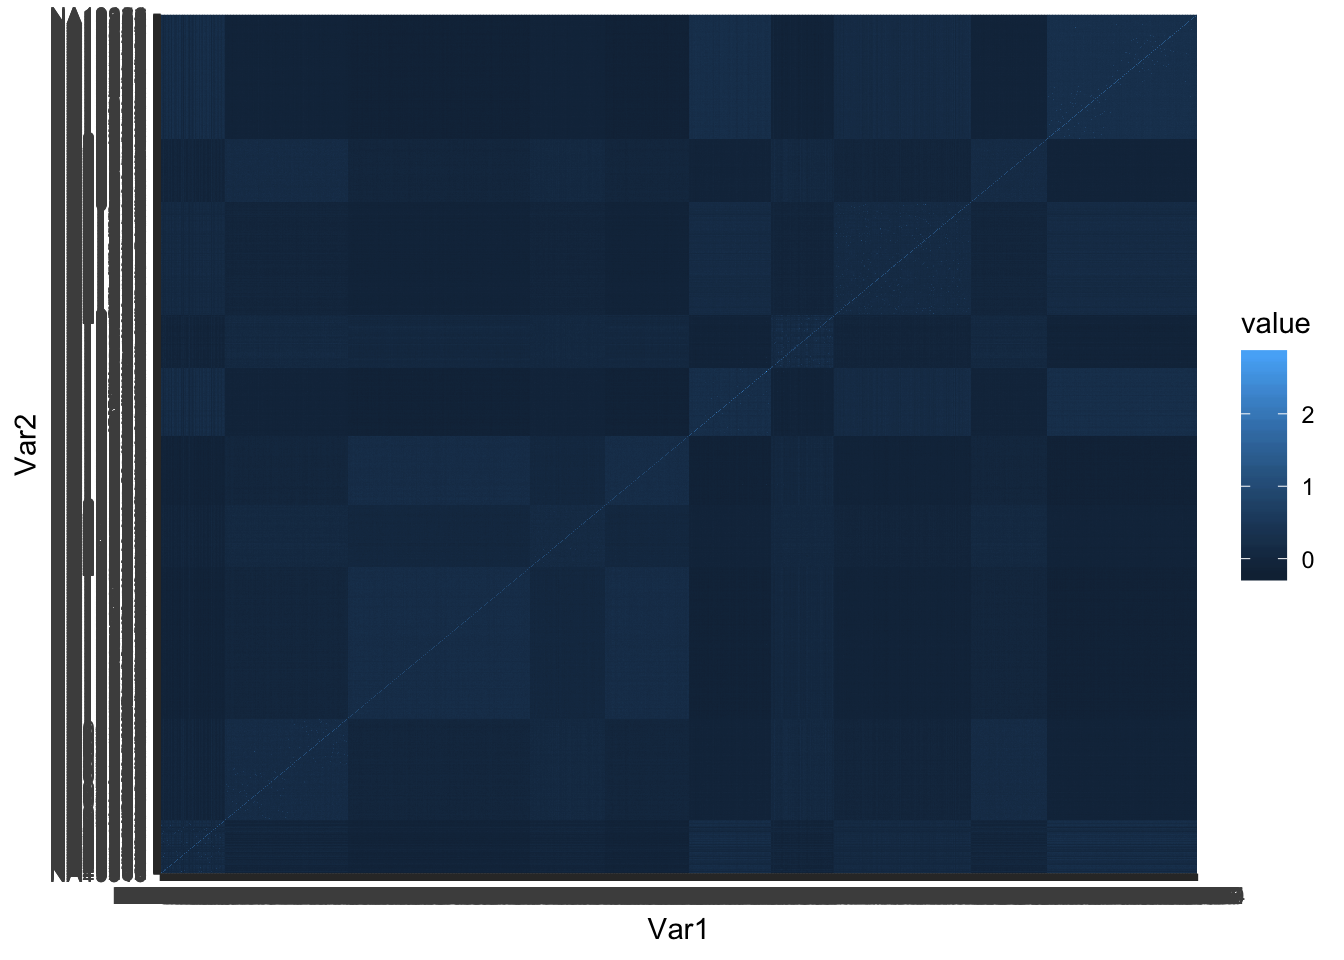
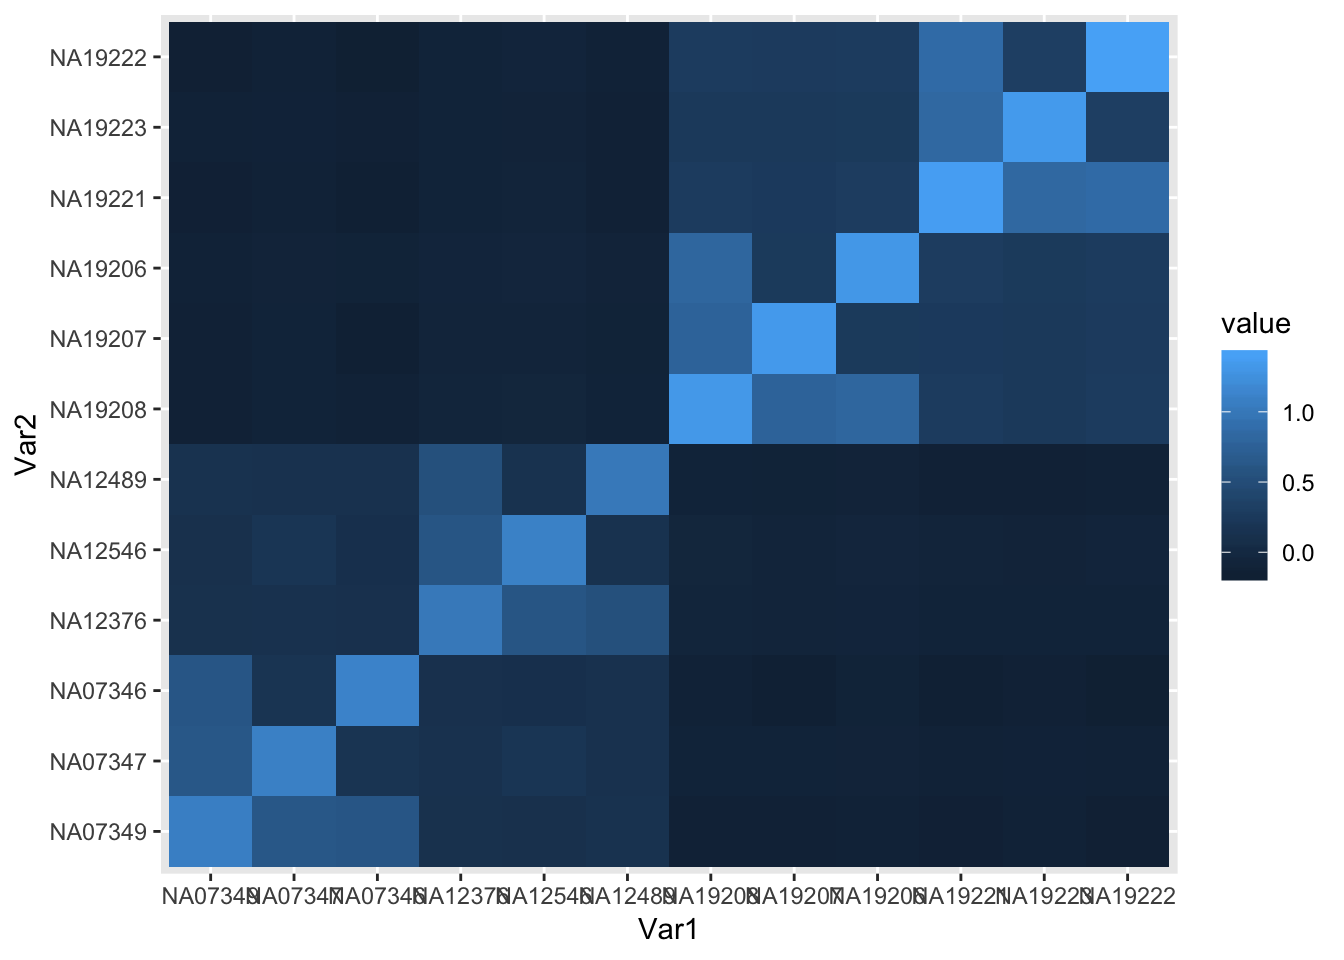
grm for selected only

diff --git a/docs/L8-GRM.html b/docs/L8-GRM.html
@@ -13,7 +13,7 @@
 
 <meta name="date" content="2020-02-06" />
 
-<title>L8-ldscore-GRM</title>
+<title>L8 GRM shows population structure</title>
 
 <script src="site_libs/jquery-1.11.3/jquery.min.js"></script>
 <meta name="viewport" content="width=device-width, initial-scale=1" />
@@ -418,7 +418,7 @@ div.section {
 
 
 
-<h1 class="title toc-ignore">L8-ldscore-GRM</h1>
+<h1 class="title toc-ignore">L8 GRM shows population structure</h1>
 <h4 class="author">Hae Kyung Im</h4>
 <h4 class="date">2020-02-06</h4>
 
@@ -469,7 +469,7 @@ This reproducible <a href="http://rmarkdown.rstudio.com">R Markdown</a> analysis
 </div>
 <div id="strongRMarkdownfilestronguncommittedchanges" class="panel-collapse collapse">
 <div class="panel-body">
-<p>The R Markdown is untracked by Git. To know which version of the R Markdown file created these results, you’ll want to first commit it to the Git repo. If you’re still working on the analysis, you can ignore this warning. When you’re finished, you can run <code>wflow_publish</code> to commit the R Markdown file and build the HTML.</p>
+<p>The R Markdown file has unstaged changes. To know which version of the R Markdown file created these results, you’ll want to first commit it to the Git repo. If you’re still working on the analysis, you can ignore this warning. When you’re finished, you can run <code>wflow_publish</code> to commit the R Markdown file and build the HTML.</p>
 </div>
 </div>
 </div>
@@ -524,10 +524,10 @@ This reproducible <a href="http://rmarkdown.rstudio.com">R Markdown</a> analysis
 <div class="panel panel-default">
 <div class="panel-heading">
 <p class="panel-title">
-<a data-toggle="collapse" data-parent="#workflowr-checks" href="#strongRepositoryversionstrongahrefhttpsgithubcomhakyimlabhgen471treee94b3dd6a4b2adbb88c90c3cf65c1a56ac9ef265targetblanke94b3dda"> <span class="glyphicon glyphicon-ok text-success" aria-hidden="true"></span> <strong>Repository version:</strong> <a href="https://github.com/hakyimlab/hgen471/tree/e94b3dd6a4b2adbb88c90c3cf65c1a56ac9ef265" target="_blank">e94b3dd</a> </a>
+<a data-toggle="collapse" data-parent="#workflowr-checks" href="#strongRepositoryversionstrongahrefhttpsgithubcomhakyimlabhgen471tree92e339bd615b5df6e84ac560309f1e922ab9fbc1targetblank92e339ba"> <span class="glyphicon glyphicon-ok text-success" aria-hidden="true"></span> <strong>Repository version:</strong> <a href="https://github.com/hakyimlab/hgen471/tree/92e339bd615b5df6e84ac560309f1e922ab9fbc1" target="_blank">92e339b</a> </a>
 </p>
 </div>
[2 lines of base64/hex data omitted]
 <div class="panel-body">
 <p>
 Great! You are using Git for version control. Tracking code development and connecting the code version to the results is critical for reproducibility. The version displayed above was the version of the Git repository at the time these results were generated. <br><br> Note that you need to be careful to ensure that all relevant files for the analysis have been committed to Git prior to generating the results (you can use <code>wflow_publish</code> or <code>wflow_git_commit</code>). workflowr only checks the R Markdown file, but you know if there are other scripts or data files that it depends on. Below is the status of the Git repository when the results were generated:
@@ -539,9 +539,8 @@ Ignored files:
     Ignored:    .Rproj.user/
     Ignored:    docs/.DS_Store
 
-Untracked files:
-    Untracked:  analysis/L8-GRM.Rmd
-    Untracked:  analysis/L8-LD-score.Rmd
+Unstaged changes:
+    Modified:   analysis/L8-GRM.Rmd
 
 </code></pre>
 <p>
@@ -554,9 +553,69 @@ Note that any generated files, e.g. HTML, png, CSS, etc., are not included in t
 <hr>
 </div>
 <div id="versions" class="tab-pane fade">
+
 <p>
-There are no past versions. Publish this analysis with <code>wflow_publish()</code> to start tracking its development.
+These are the previous versions of the R Markdown and HTML files. If you’ve configured a remote Git repository (see <code>?wflow_git_remote</code>), click on the hyperlinks in the table below to view them.
 </p>
+<div class="table-responsive">
+<table class="table table-condensed table-hover">
+<thead>
+<tr>
+<th>
+File
+</th>
+<th>
+Version
+</th>
+<th>
+Author
+</th>
+<th>
+Date
+</th>
+<th>
+Message
+</th>
+</tr>
+</thead>
+<tbody>
+<tr>
+<td>
+Rmd
+</td>
+<td>
+<a href="https://github.com/hakyimlab/hgen471/blob/92e339bd615b5df6e84ac560309f1e922ab9fbc1/analysis/L8-GRM.Rmd" target="_blank">92e339b</a>
+</td>
+<td>
+Hae Kyung Im
+</td>
+<td>
+2020-02-07
+</td>
+<td>
+GRM-LD-score
+</td>
+</tr>
+<tr>
+<td>
+html
+</td>
+<td>
+<a href="https://rawcdn.githack.com/hakyimlab/hgen471/92e339bd615b5df6e84ac560309f1e922ab9fbc1/docs/L8-GRM.html" target="_blank">92e339b</a>
+</td>
+<td>
+Hae Kyung Im
+</td>
+<td>
+2020-02-07
+</td>
+<td>
+GRM-LD-score
+</td>
+</tr>
+</tbody>
+</table>
+</div>
 <hr>
 </div>
 </div>
@@ -626,8 +685,45 @@ ind = c(&quot;NA07349&quot;,&quot;NA07347&quot;,&quot;NA07346&quot;,&quot;NA1237
 grmat = grmgz2mat(grmhead)
 
 ## plot grmat to see the population structure
-tileplot(grmat)</code></pre>
+tileplot(grmat[ind,ind])</code></pre>
 <p><img src="figure/L8-GRM.Rmd/visualize%20pattern%20in%20GRM-1.png" width="672" style="display: block; margin: auto;" /></p>
+<p>
+<button type="button" class="btn btn-default btn-xs btn-workflowr btn-workflowr-fig" data-toggle="collapse" data-target="#fig-visualize pattern in GRM-1">
+Past versions of visualize pattern in GRM-1.png
+</button>
+</p>
+<div id="fig-visualize pattern in GRM-1" class="collapse">
+<div class="table-responsive">
+<table class="table table-condensed table-hover">
+<thead>
+<tr>
+<th>
+Version
+</th>
+<th>
+Author
+</th>
+<th>
+Date
+</th>
+</tr>
+</thead>
+<tbody>
+<tr>
+<td>
+<a href="https://github.com/hakyimlab/hgen471/blob/92e339bd615b5df6e84ac560309f1e922ab9fbc1/docs/figure/L8-GRM.Rmd/visualize pattern in GRM-1.png" target="_blank">92e339b</a>
+</td>
+<td>
+Hae Kyung Im
+</td>
+<td>
+2020-02-07
+</td>
+</tr>
+</tbody>
+</table>
+</div>
+</div>
 <br>
 <p>
 <button type="button" class="btn btn-default btn-workflowr btn-workflowr-sessioninfo" data-toggle="collapse" data-target="#workflowr-sessioninfo" style="display: block;">
@@ -665,10 +761,10 @@ loaded via a namespace (and not attached):
 [25] httr_1.4.0       knitr_1.23       hms_0.4.2        generics_0.0.2  
 [29] fs_1.3.1         rprojroot_1.3-2  grid_3.6.0       tidyselect_0.2.5
 [33] glue_1.3.1       R6_2.4.0         readxl_1.3.1     rmarkdown_1.13  
-[37] modelr_0.1.4     magrittr_1.5     backports_1.1.4  scales_1.0.0    
-[41] htmltools_0.4.0  rvest_0.3.4      assertthat_0.2.1 colorspace_1.4-1
-[45] labeling_0.3     stringi_1.4.3    lazyeval_0.2.2   munsell_0.5.0   
-[49] broom_0.5.2      crayon_1.3.4    </code></pre>
+[37] modelr_0.1.4     magrittr_1.5     whisker_0.3-2    backports_1.1.4 
+[41] scales_1.0.0     htmltools_0.4.0  rvest_0.3.4      assertthat_0.2.1
+[45] colorspace_1.4-1 labeling_0.3     stringi_1.4.3    lazyeval_0.2.2  
+[49] munsell_0.5.0    broom_0.5.2      crayon_1.3.4    </code></pre>
 </div>
 </div>
 
